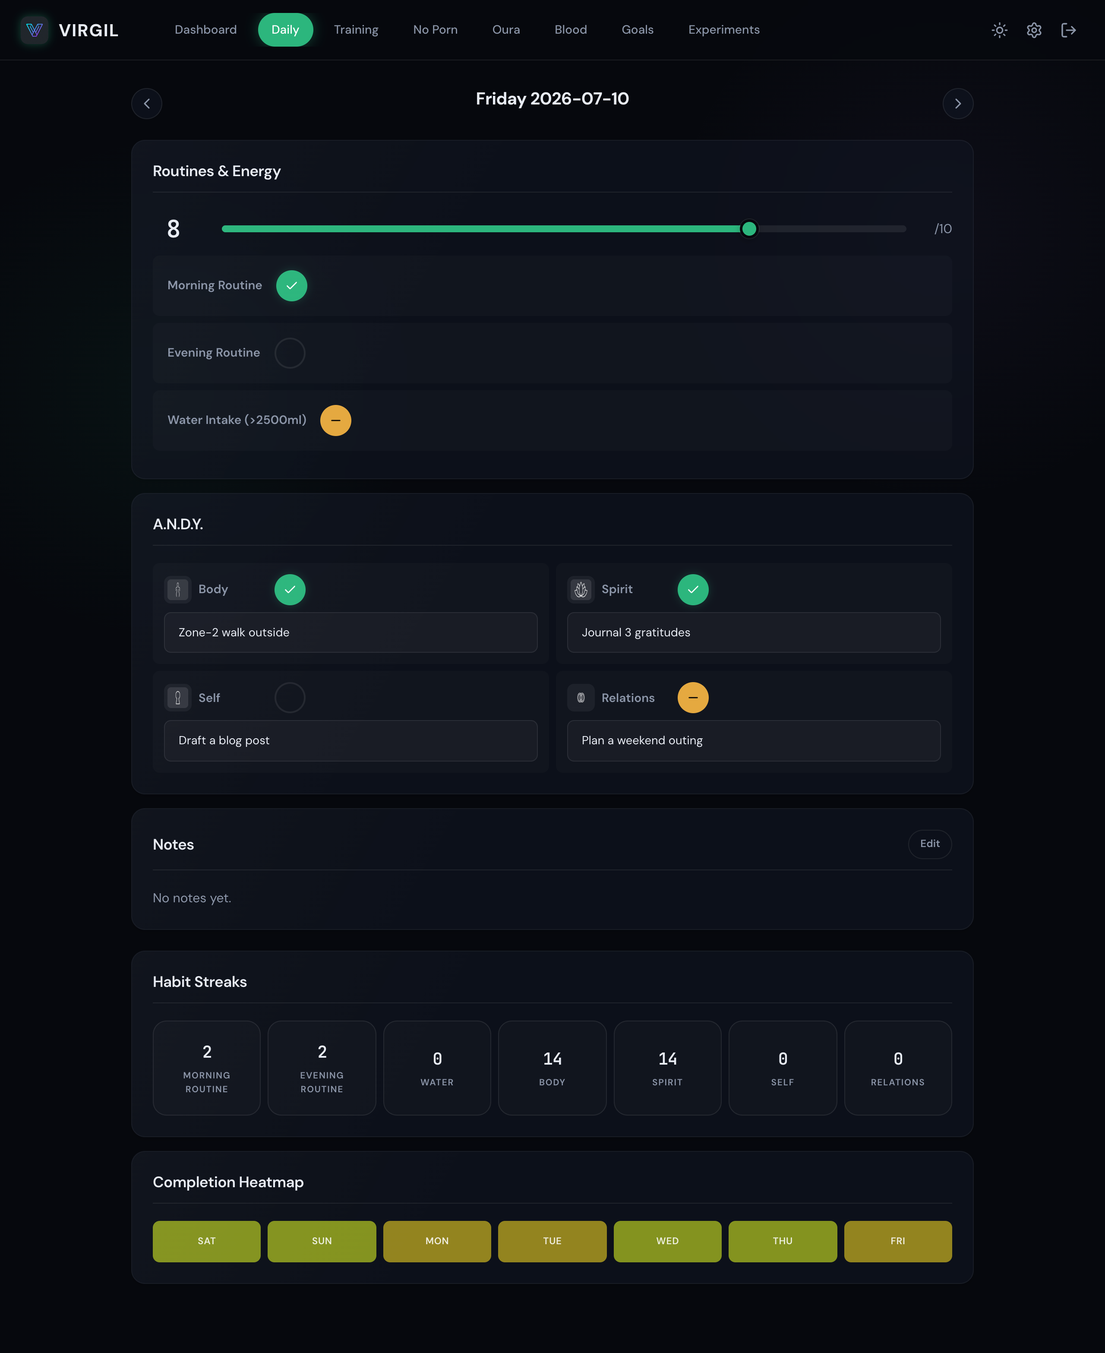
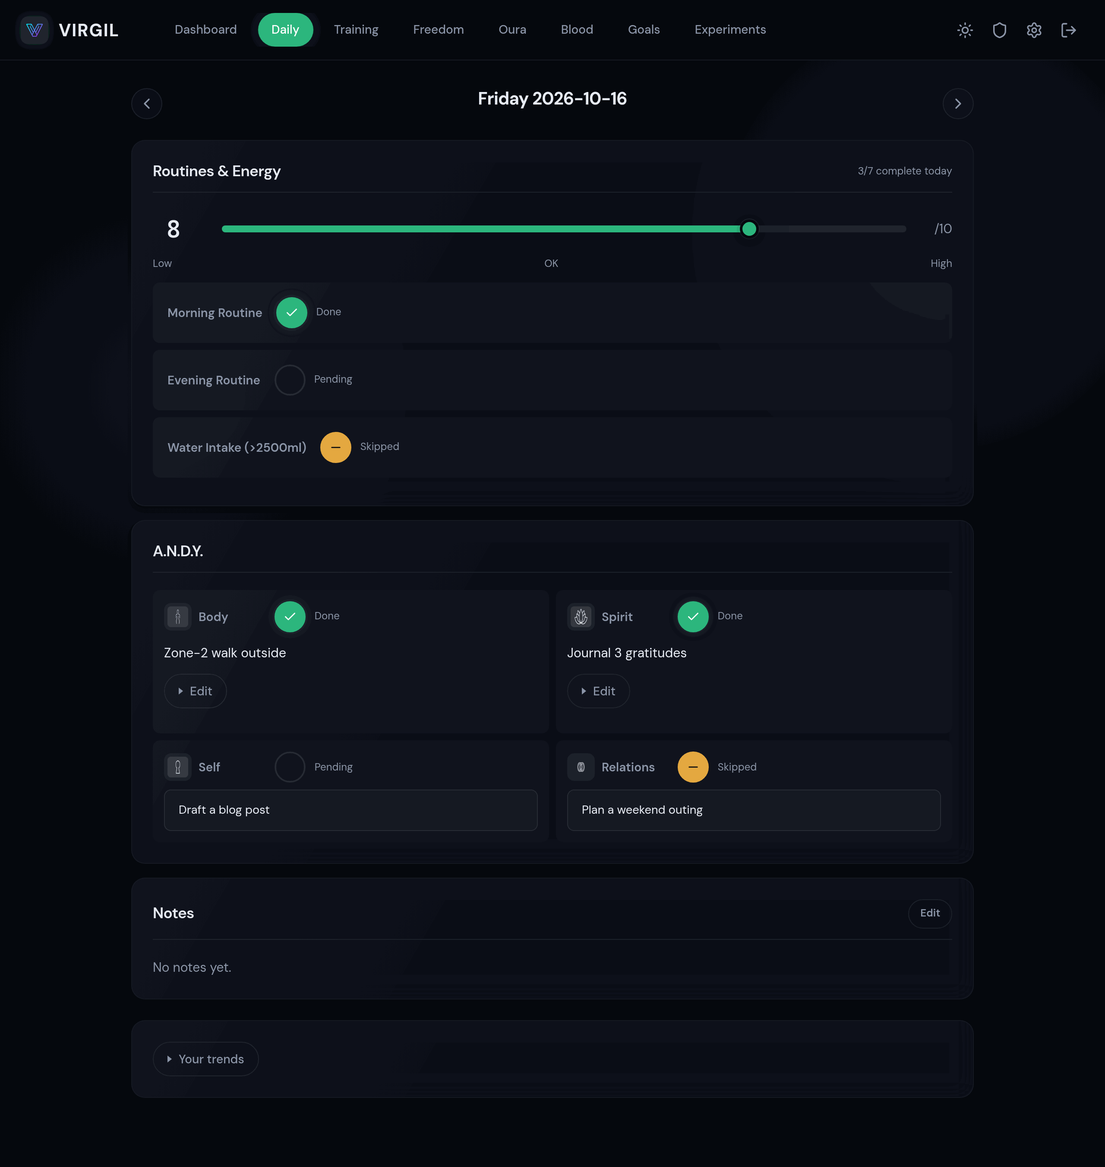
Document Freedom, the in-place dashboard and the hosted MCP endpoint
README: Freedom replaces the No Porn section, with its per-habit slip
definitions, the habit checklist, the /feniks redirect and migration 034. The
dashboard, navigation, shortcut, API and MCP, settings, migration, data-model,
export and project-tree sections follow. Migrations 030 to 032 were missing
from the table.

The changelog gains the hosted MCP endpoint and the UI pass, which shipped
without entries, along with this release's work. The roadmap lists the
follow-ups this work leaves.

The screenshots are retaken from the demo seeder and stored as 256-colour
PNGs: the gallery drops from 4.8 MB to under 1 MB.

diff --git a/README.md b/README.md
@@ -8,20 +8,20 @@ Virgil tracks daily habits, training sessions, health metrics, goals, experiment
 
 ## Screenshots
 
-<sub>All screenshots use the built-in demo seeder (`scripts/seed_demo.py`) — fictional data, no real user information. They predate the v0.6.0 layout pass, so the arrangement they show is one release behind.</sub>
+<sub>All screenshots use the built-in demo seeder (`scripts/seed_demo.py`) plus three fictional focus goals - no real user information. Desktop, dark theme.</sub>
 
 <table>
 <tr>
-<td width="50%"><img src="docs/screenshots/dashboard.png" alt="Dashboard"><br><sub><b>Dashboard</b> - today's check-in first, then Insights (Oura, measurements, life-scores radar)</sub></td>
+<td width="50%"><img src="docs/screenshots/dashboard.png" alt="Dashboard"><br><sub><b>Dashboard</b> - today's A.N.D.Y. tasks and routines tapped in place, focus goals, the week, then Insights</sub></td>
 <td width="50%"><img src="docs/screenshots/daily.png" alt="Daily log"><br><sub><b>Daily</b> - energy, routines and A.N.D.Y. tasks (AI-suggested), with a stated n/7 count</sub></td>
 </tr>
 <tr>
 <td width="50%"><img src="docs/screenshots/training.png" alt="Training"><br><sub><b>Training</b> - free-text capture, grouped PBs, and calendar history</sub></td>
-<td width="50%"><img src="docs/screenshots/oura.png" alt="Oura Ring data"><br><sub><b>Oura</b> — daily & monthly trends (sleep, HRV, readiness, RHR)</sub></td>
+<td width="50%"><img src="docs/screenshots/oura.png" alt="Oura Ring data"><br><sub><b>Oura</b> - readiness against baseline, grouped vitals, monthly and daily trends</sub></td>
 </tr>
 <tr>
-<td width="50%"><img src="docs/screenshots/no-porn.png" alt="No Porn tracker"><br><sub><b>No Porn</b> — bricks, single-flow day log, weekly clean-rate, unified timeline</sub></td>
-<td width="50%"><img src="docs/screenshots/experiments.png" alt="Experiments"><br><sub><b>Experiments</b> — metric-based protocols (minutes, counts, daily yes/no, 0-10 ratings) with one-tap logging</sub></td>
+<td width="50%"><img src="docs/screenshots/freedom.png" alt="Freedom habit tracker"><br><sub><b>Freedom</b> - every habit you are breaking checked off in one tap, then one habit's bricks, day log and timeline</sub></td>
+<td width="50%"><img src="docs/screenshots/experiments.png" alt="Experiments"><br><sub><b>Experiments</b> - metric-based protocols (minutes, counts, daily yes/no, 0-10 ratings) with one-tap logging</sub></td>
 </tr>
 </table>
 
@@ -208,7 +208,7 @@ All configuration via environment variables:
 | `VIRGIL_INTERNAL_LLM_KEY` | (empty) | API key for internal LLM |
 | `VIRGIL_API_KEY` | (empty) | REST API key: reads plus goal, rep, experiment-entry, exercise-library, daily-log, training, and measurement writes (empty = API disabled) |
 | `VIRGIL_API_USER_EMAIL` | (empty) | Which user's data the API serves (default: first active admin) |
-| `VIRGIL_API_SENSITIVE` | `false` | Expose `/api/noporn` (intimate journal content) and Feniks day-log, brick and config writes over the API key |
+| `VIRGIL_API_SENSITIVE` | `false` | Expose `/api/noporn` (intimate journal content), `/api/freedom` and the Freedom day-log, brick and habit-settings writes over the API key |
 | `CLOUDFLARE_TUNNEL_TOKEN` | (none) | Cloudflare Tunnel token (docker-compose only) |
 
 Port is always **8123**.
@@ -217,11 +217,14 @@ Port is always **8123**.
 
 ### Dashboard (`/`)
 
-Action first, analytics after. The first block is **Today**: how much of the
-check-in is done (`n/4`) and one button into it. Then the morning briefing (if
-enabled), the week strip and active experiments. Everything that describes the
-past sits under **Insights** - Oura vitals, body measurements, the life-score
-radar - with the year calendar dot-matrix collapsed at the end.
+Action first, analytics after. The first block is **Today**: the four A.N.D.Y.
+tasks and three routines, each tapped in place through `done > skipped > pending`
+without opening Daily, with the count (`n/4`) and `Edit today's log` for
+descriptions and notes. Then the morning briefing (if enabled), **Focus** (the
+starred goals), the week strip (energy per day, with a legend) and active
+experiments. Everything that describes the past sits under **Insights** - Oura
+vitals, body measurements, the life-score radar - with the year calendar
+dot-matrix collapsed at the end.
 
 There is deliberately no interpretation sentence here: the page states the next
 action and the numbers, and leaves the verdict to you.
@@ -311,14 +314,34 @@ history across two exercises and halve your Personal Bests.
 > as real Core volume, and a single 21-15-9 thruster couplet at 43 kg is ~1935 kg.
 > That is intentional — see CHANGELOG.
 
-### No Porn (`/feniks`)
-Recovery tracker (hidden by default — enable in Settings > General > Modules), built as a single flow: one day question, one brick capture, one timeline.
-- **Measurement contract** - watched means at least five total minutes of intentional viewing. Shorter exposure stays clean and belongs in the always-visible note. A brick is one distinct decision episode resolved before exposure; background desire alone is not a brick and no specific coping action is required.
-- **Bricks hero** — count of urges survived; each brick carries a required memory hook, craving (0-10) and a short story (Gola's brick method). The days-clean streak and a Monday-to-Sunday week strip show below.
-- **Brick corrections** - records can be edited or removed with confirmation.
-- **Day log** - one question: *Clean day* or *I watched*; watching reveals minutes and an edging toggle. Marking a day as watched records its relapse event once; correcting it back to clean removes only that marker and clears watched-only fields.
-- **Weekly clean rate** — a slip doesn't erase the week
-- **Timeline** — days and their bricks together, newest first
+### Freedom (`/freedom`)
+Habits you are breaking free from. Hidden by default: enable **Freedom** in
+Settings > General > Modules and tick the habits to track - porn, alcohol,
+nicotine, cannabis, drugs, gambling, social media, sugar, or one in your own
+words. Unticking a habit stops tracking it and keeps its history. The old
+`/feniks` address redirects here.
+
+- **Today** - every tracked habit with its streak and this week's clean rate,
+  checked off as *Clean* or *Slipped* in one tap
+- **One habit at a time** below it: its why, the bricks hero (urges survived)
+  with a Monday-to-Sunday week strip, the day log, brick capture and the timeline
+- **Each habit defines its own slip** - the button label (*I watched*, *I drank*),
+  an optional amount with a unit and threshold, an optional near miss, and a
+  written definition shown above the day question. Porn keeps the old measurement
+  contract: watched means at least five total minutes of intentional viewing,
+  shorter exposure stays clean and belongs in the note, and the near miss is
+  edging. Everything is editable under the habit's settings
+- **Bricks** - one distinct decision episode resolved before a slip; each carries
+  a required memory hook, craving (0-10) and a short story (Gola's brick method),
+  and can be edited or removed with confirmation
+- **Day log** - marking a slip records that habit's relapse event once; correcting
+  the day back to clean removes only that marker and clears slip-only fields
+- **Weekly clean rate** - a slip lowers the week's rate (target 75%) and never
+  resets it to zero
+- **Timeline** - days and their bricks together, newest first
+
+Migration 034 moves No Porn history - days, bricks, relapse events, start date,
+target and why - onto a Porn habit.
 
 ### Oura (`/oura`)
 Daily and monthly Oura Ring metrics — sleep, readiness, activity, HRV, stress, and more.
@@ -393,9 +416,13 @@ Time-boxed experiments over 1..N tracked **metrics**. Each metric has a kind:
   - `log_daily` → `PUT /api/daily/{date}` merges only the supplied fields: energy,
     routines, and the four A.N.D.Y. statuses and descriptions
   - `log_feniks_day` → `PUT /api/feniks/daily/{date}` and `add_brick` →
-    `POST /api/feniks/bricks` keep the form's contract (watched means at least
-    5 minutes; the relapse marker follows the outcome). Both require
-    `VIRGIL_API_SENSITIVE=true`
+    `POST /api/feniks/bricks` keep the Freedom form's contract (the relapse
+    marker follows the outcome; for Porn, watched means at least 5 minutes).
+    They take an optional `habit` slug, defaulting to the first tracked habit
+    (Porn for an account migrated from No Porn), and still accept the old field
+    names `used`, `minutes` and `edging`. Both require `VIRGIL_API_SENSITIVE=true`
+  - `get_habits` → `GET /api/freedom` lists every tracked habit with its streak,
+    this week, today's entry, bricks, slip definition and settings (sensitive)
   - `log_training` → `POST /api/training/sessions` writes a session and all its
     sets in one transaction; an unknown movement refuses the write and lists the
     names. `update_training` / `delete_training` → `PATCH/DELETE
@@ -405,7 +432,8 @@ Time-boxed experiments over 1..N tracked **metrics**. Each metric has a kind:
   - `delete_feniks_day` → `DELETE /api/feniks/daily/{date}`, `update_brick` /
     `delete_brick` → `PATCH/DELETE /api/feniks/bricks/{id}`, and
     `update_feniks_config` → `PATCH /api/feniks/config` (start date, target
-    days, big why), all behind `VIRGIL_API_SENSITIVE=true`
+    days, big why), all behind `VIRGIL_API_SENSITIVE=true`; the day and config
+    calls take the same optional `habit`
   - `get_training_session` → `GET /api/training/sessions/{id}`
   - `get_measurements`, `log_measurements`, `delete_measurements` →
     `GET /api/measurements`, `PUT/DELETE /api/measurements/{date}`, with the
@@ -413,7 +441,7 @@ Time-boxed experiments over 1..N tracked **metrics**. Each metric has a kind:
 
 ### Settings (`/settings`)
 Six-tab settings page:
-- **General** — Database info, LLM provider management (add/activate/delete Claude, OpenAI, Gemini keys), the thinking level every AI call uses (`none`/`low`/`medium`/`high`/`xhigh`, default `medium`), feature flag modules (enable/disable optional modules like Feniks)
+- **General** - Database info, LLM provider management (add/activate/delete Claude, OpenAI, Gemini keys), the thinking level every AI call uses (`none`/`low`/`medium`/`high`/`xhigh`, default `medium`), feature flag modules (enable/disable optional modules like Freedom, with its habit checklist)
 - **App Config** — Training schedule (which days are training days; what the A.N.D.Y. planner assumes) and the exercise library: the vocabulary the workout parser resolves notes against. Add your own entries, edit/delete them; built-in entries can be archived (hidden from the parser) but never edited or deleted. Over REST/MCP each entry also has a family (Snatch, Squat, Pull...), a default equipment and aliases such as "T2B" or "pistols"; matching is exact name, then alias, then unknown, never a nearest guess
 - **Integrations** — OAuth2 connections (Oura Ring), webhook management, sync controls
 - **Data** — Markdown export (weekly/monthly/yearly/all), data import, JSON/CSV download, database backup
@@ -470,7 +498,7 @@ Press `?` to see the shortcut overlay. Navigation uses a `g` prefix:
 | `g d` | Dashboard |
 | `g l` | Daily |
 | `g t` | Training |
-| `g f` | Feniks (when enabled) |
+| `g f` | Freedom (when enabled) |
 | `g o` | Oura |
 | `g b` | Bloodwork |
 | `g e` | Experiments |
@@ -479,6 +507,12 @@ Press `?` to see the shortcut overlay. Navigation uses a `g` prefix:
 | `<-` / `->` | Previous/next day (daily page) |
 | `?` | Toggle shortcut overlay |
 | `Esc` | Close overlay |
+
+### Navigation
+Wide screens get the top navigation bar. On a phone a bottom bar holds what you
+act on daily - Home, Daily, Training, and Freedom (Goals when Freedom is off) -
+and `More` opens the read-mostly pages: Experiments, Oura, Blood, Settings, and
+Goals when Freedom takes its place.
 
 ### Swipe Gestures
 On mobile, swipe left/right on the daily page to navigate between days. Uses `data-swipe-left` / `data-swipe-right` attributes (80px minimum, 300ms maximum, horizontal > vertical).
@@ -497,6 +531,8 @@ Virgil is installable as a PWA. The service worker provides:
 - Optional TOTP MFA via `pyotp` + `qrcode`
 - Signed cookie sessions via `itsdangerous.TimestampSigner` (7-day expiry)
 - MFA-pending sessions blocked from protected routes
+- A signed session whose account was deleted or disabled is cleared on the way to
+  `/login`, instead of looping between `/` and `/login`
 
 ### Middleware Stack
 Request processing order:
@@ -556,7 +592,11 @@ Current migrations:
 | 027 | `jobs` | Adds the per-user durable job queue: bounded payloads, idempotency keys, single-runner claims with lease tokens, persisted retry timing |
 | 028 | `active_workload_jobs` | One queued job per operational workload kind (backup, export, Oura sync); reconciles v27 duplicates |
 | 029 | `llm_publications` | Adds the paid-LLM publication ledger, which outlives terminal job pruning, and one queued job per paid kind |
+| 030 | `feniks_measurement_contract` | Clears watched-only measurements left on clean Feniks days |
+| 031 | `canonical_goals` | Adds canonical goal state, first-class reps and goal-linked experiments |
+| 032 | `training_history_indexes` | Indexes training history summaries and selected-day details |
 | 033 | `movement_taxonomy` | Adds movement families, aliases, default and per-set equipment; adds missing CrossFit variants and merges duplicate movements with their history |
+| 034 | `freedom_habits` | Adds `habits`; keys day logs, bricks and relapse events by habit; moves No Porn history onto a Porn habit and renames `feature_no_porn` to `feature_freedom` |
 
 Central registry migrations:
 | Version | Name | Description |
@@ -581,8 +621,10 @@ Central registry migrations:
 - `daily_briefings` — AI-generated morning briefings
 - `training_exercises` — the row every logged set references; seeded, no longer a UI-managed protocol
 - `training_sessions` + `training_entries` — workout logs
-- `feniks_config`, `feniks_journal`, `feniks_pleasures`, `feniks_milestones` — Feniks program
-- `pmo_events` — relapse/reset events
+- `habits` - Freedom habits: slip label and definition, amount unit and threshold, near-miss label, start date, target, why, tracked flag
+- `feniks_daily`, `feniks_bricks` - Freedom day logs and bricks, keyed by habit
+- `pmo_events` - relapse/reset events, keyed by habit
+- `feniks_config`, `feniks_journal`, `feniks_pleasures`, `feniks_milestones` - the No Porn program's legacy tables, kept for history
 - `oura_daily` — Oura Ring per-day data (from API or webhook)
 - `oura_monthly` — Oura Ring monthly averages (computed from daily or manual)
 - `oura_workouts` — Oura workout data
@@ -598,7 +640,7 @@ Central registry migrations:
 - `sync_log` — export/sync audit trail
 
 ### Three-State Toggles
-Habit and task items use a three-state cycle: `done` > `skipped` > `pending`, mapped to `[x]` / `[-]` / `[ ]` in markdown.
+Habit and task items use a three-state cycle: `done` > `skipped` > `pending`, mapped to `[x]` / `[-]` / `[ ]` in markdown. On the dashboard each tap advances one item (`POST /daily/{date}/cycle`) and leaves the rest of the day as it was.
 
 ## Oura Ring Integration
 
@@ -644,7 +686,7 @@ Generates a single markdown file in the second-brain directory (per-user filenam
 
 | Scope | Content |
 |---|---|
-| Weekly | Daily logs, training, feniks (if enabled), measurements (current week) |
+| Weekly | Daily logs, training, Freedom habits (if enabled), measurements (current week) |
 | Monthly | Weekly data + oura, life scores, experiments (current month) |
 | Yearly | Monthly data + blood work, goals (current year) |
 | All | Everything in the database |
@@ -665,6 +707,7 @@ virgil/
 │   ├── rate_limit.py         # Per-IP sliding window rate limiter
 │   ├── security_headers.py   # Security response headers middleware (CSP + worker-src)
 │   ├── validation.py         # Shared input validation helpers
+│   ├── mcp_endpoint.py       # Hosted MCP over Streamable HTTP at /mcp
 │   ├── migrations/
 │   │   ├── runner.py         # Migration discovery + execution engine
 │   │   ├── 001_initial_schema.py
@@ -679,7 +722,7 @@ virgil/
 │   │   ├── dashboard.py      # / route + sparkline data + /offline
 │   │   ├── daily.py          # /daily routes + A.N.D.Y. AI generation
 │   │   ├── training.py       # /training routes + exercise CRUD + KPIs
-│   │   ├── feniks.py         # /feniks routes + progress chart
+│   │   ├── freedom.py        # /freedom routes (and the /feniks redirect)
 │   │   ├── oura.py           # /oura routes + daily trends
 │   │   ├── oura_webhook.py   # /api/oura/webhook (HMAC-verified, CSRF-exempt)
 │   │   ├── bloodwork.py      # /bloodwork routes
@@ -707,7 +750,10 @@ virgil/
 │   │   ├── scheduler.py      # Background task loop (enqueues due work, runs the job worker)
 │   │   ├── backup.py         # SQLite backup with rolling retention
 │   │   ├── experiment_summary.py # AI weekly summaries for experiments
-│   │   └── streak.py         # Feniks streak calculation
+│   │   ├── habits.py         # Freedom habit catalog, tracking and settings
+│   │   ├── freedom_log.py    # Freedom day logs, bricks and per-habit overview
+│   │   ├── daily_log.py      # Daily-log persistence shared by forms, REST and the dashboard
+│   │   └── streak.py         # Freedom streak and weekly clean rate per habit
 │   ├── templates/
 │   │   ├── base.html         # Layout with nav, theme toggle, SW registration
 │   │   ├── offline.html      # Standalone offline fallback page

diff --git a/CHANGELOG.md b/CHANGELOG.md
@@ -8,6 +8,21 @@ and this project adheres to [Semantic Versioning](https://semver.org/spec/v2.0.0
 ## [Unreleased]
 
 ### Added
+- Freedom replaces the No Porn module and tracks any habit being broken, several
+  at once: porn, alcohol, nicotine, cannabis, drugs, gambling, social media,
+  sugar, or one in your own words. Each habit defines its own slip (label,
+  amount unit and threshold, near miss, written definition) and has its own
+  streak, weekly clean rate, bricks and timeline. A Today list checks every
+  habit off in one tap; Settings > Modules picks the habits from a checklist.
+- `GET /api/freedom` and the MCP tool `get_habits` list every tracked habit
+  (sensitive scope). The Feniks REST calls and their MCP tools take an optional
+  `habit`, defaulting to the first tracked one, and keep their old field names.
+- The dashboard's Today block is editable in place: each A.N.D.Y. task and
+  routine advances `done > skipped > pending` with one tap, without opening
+  Daily. A Focus block lists the starred goals, and the week strip has a legend.
+- The app serves the MCP tools over Streamable HTTP at `/mcp`, with the REST
+  API's `X-API-Key` (plus the Cloudflare Access service-token headers behind
+  Access), so a client needs no checkout or `uv`.
 - REST and MCP complete CRUD for the daily log (read and delete one day),
   Feniks (delete a day, edit and delete bricks, edit the module config),
   training sessions (read one) and body measurements (list, merge, delete).
@@ -23,6 +38,17 @@ and this project adheres to [Semantic Versioning](https://semver.org/spec/v2.0.0
   accept family, default equipment and aliases, also on builtin entries.
 
 ### Changed
+- `/feniks` redirects to `/freedom`, and `g f` opens Freedom. Migration 034
+  moves No Porn days, bricks, relapse events and settings onto a Porn habit and
+  renames the `feature_no_porn` flag to `feature_freedom`.
+- On phones the bottom bar holds Home, Daily, Training, Freedom (Goals when
+  Freedom is off) and More, which opens the read-mostly pages. The separate
+  Data menu (Oura, Blood) is folded into More.
+- A UI pass for phones, the light theme and legibility: surface overlays follow
+  the theme, readable text has a 12px floor, inputs are 16px and controls 44px
+  on phones, card headers and tabs wrap cleanly, and status toggles, day arrows
+  and charts have accessible names. Steps print with thousands separators and
+  a one-sided lab range reads `< 100`.
 - Brick edits and body measurements share their persistence with REST. The
   measurement form refuses values outside plausible bounds instead of storing
   them.
@@ -34,6 +60,14 @@ and this project adheres to [Semantic Versioning](https://semver.org/spec/v2.0.0
   validate and write the same way.
 
 ### Fixed
+- A signed session cookie for a deleted or disabled account sent the browser
+  back and forth between `/` and `/login`. The cookie is now cleared.
+- The keyboard shortcut help read a feature flag that no longer existed, so it
+  never listed `g f`.
+- Spacing: the Freedom timeline touched the habit settings card, the exercise
+  library's search, section filter and `Add exercise` had no gaps, and Daily's
+  Edit field sat on its button. The exercise table scrolls sideways on phones
+  instead of wrapping each name word by word.
 - MCP tools now return the API's error detail to the client. The SDK hid the
   text of every failure, so a refused write read only "Error executing tool".
 

diff --git a/SPEC.md b/SPEC.md
@@ -30,14 +30,14 @@ app/
 
   migrations/           - Numbered database schema migrations
     runner.py           - Migration discovery + execution engine
-    001_*.py ... 026_*.py
+    001_*.py ... 034_*.py
 
   models/               - Data models (query helpers, not ORMs)
     daily.py, bloodwork.py, experiments.py, feniks.py,
     goals.py, life_scores.py, oura.py
 
   routers/              - FastAPI route handlers (one per feature)
-    auth.py, dashboard.py, daily.py, training.py, feniks.py,
+    auth.py, dashboard.py, daily.py, training.py, freedom.py,
     oura.py, oura_webhook.py, bloodwork.py, life_scores.py,
     goals.py, experiments.py, settings.py
 
@@ -51,7 +51,9 @@ app/
     scheduler.py        - Background task loop (backup + sync + export)
     backup.py           - SQLite backup with rolling retention
     experiment_summary.py - AI weekly summaries
-    streak.py           - Feniks streak calculation
+    habits.py           - Freedom habit catalog, tracking and settings
+    freedom_log.py      - Freedom day logs, bricks and per-habit overview
+    streak.py           - Freedom streak and weekly clean rate per habit
 
   templates/            - Jinja2 HTML templates (24 files)
     base.html           - Layout, nav, theme toggle, SW registration
@@ -118,7 +120,8 @@ uv run --locked --extra dev bandit -q -c pyproject.toml -r app/ scripts/ mcp_ser
 2. Create a router in `app/routers/` with route handlers
 3. Create a template in `app/templates/`
 4. Register the router in `app/main.py`
-5. Add navigation link in `app/templates/base.html`
+5. Add navigation link in `app/templates/base.html`: the top bar, and on phones
+   either the bottom bar (a daily action) or its `More` menu (read-mostly pages)
 6. Add keyboard shortcut in `app/static/js/app.js`
 
 ### Adding a Database Migration

diff --git a/TODO.md b/TODO.md
@@ -17,6 +17,26 @@ Recovery procedure: [docs/recovery.md](docs/recovery.md).
 - [x] Remove the legacy global database connection and correct Settings' path.
 - [x] Share library persistence and transactions across form and REST writes.
 
+## Follow-ups from Freedom and the in-place dashboard
+
+- [ ] Add a Freedom quick check to the dashboard's Today block: one tap per
+      tracked habit, as on the Freedom page.
+- [ ] Log an active experiment's day from its dashboard card instead of opening it.
+- [ ] Pick one UI language. Training's capture and recovery flow is Polish
+      (`Zapisz trening`, `Niedokończone`, `Wpisz serie ręcznie`); the rest is English.
+- [ ] Goals on phones: titles are single-line inputs and are cut mid-word. Let
+      them wrap without losing in-place editing.
+- [ ] Give the Freedom API Freedom names (`/api/freedom/{habit}/days`, bricks,
+      settings) and MCP tools to match, keeping the `/api/feniks/*` paths and
+      `*_feniks_*` tools as deprecated aliases for at least one release.
+- [ ] Drop the legacy No Porn tables (`feniks_config`, `feniks_journal`,
+      `feniks_pleasures`, `feniks_milestones`) once migration 034 has run on
+      every deployment for a release, after checking nothing reads them.
+- [ ] Remove the unused Pydantic models in `app/models/` (all but `user_profile`)
+      and update SPEC's new-page checklist, which still says to add one.
+- [ ] Commit a script that regenerates the README screenshots from the demo
+      seeder, so the gallery cannot fall a release behind again.
+
 ## Next: recovery and data ownership
 
 Central migrations, mutation feedback, durable jobs, and provider subscription
